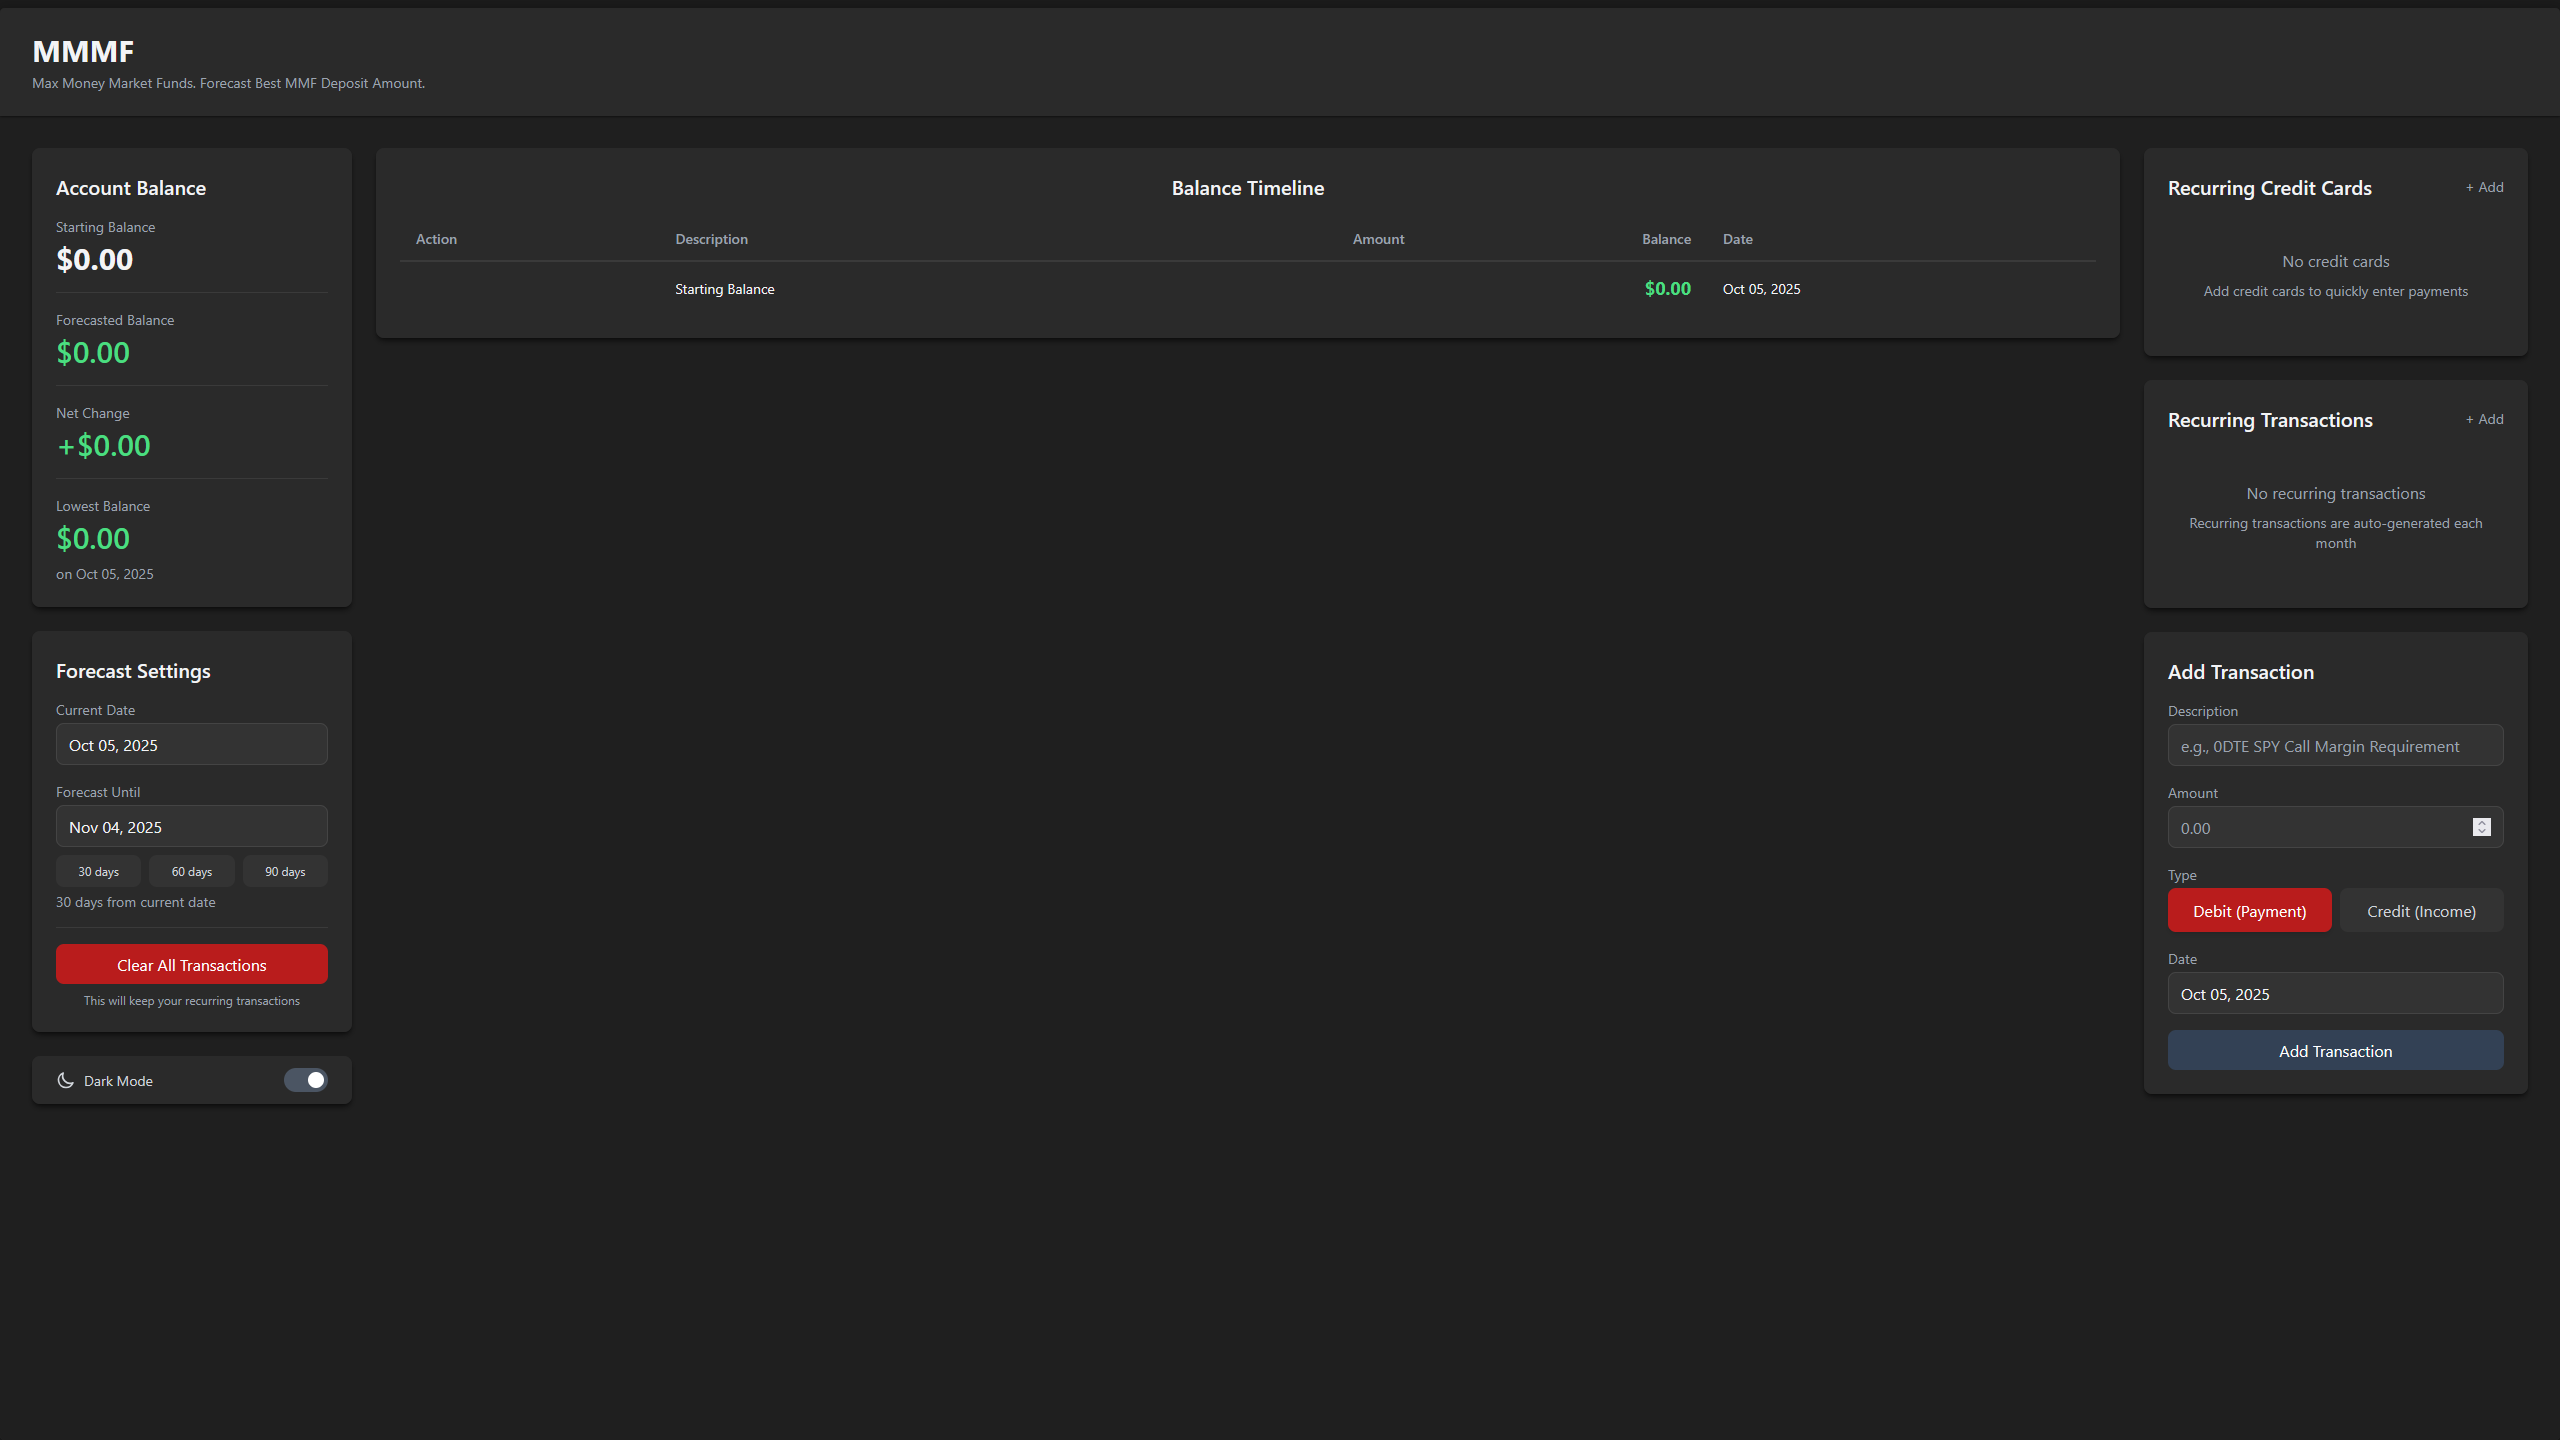
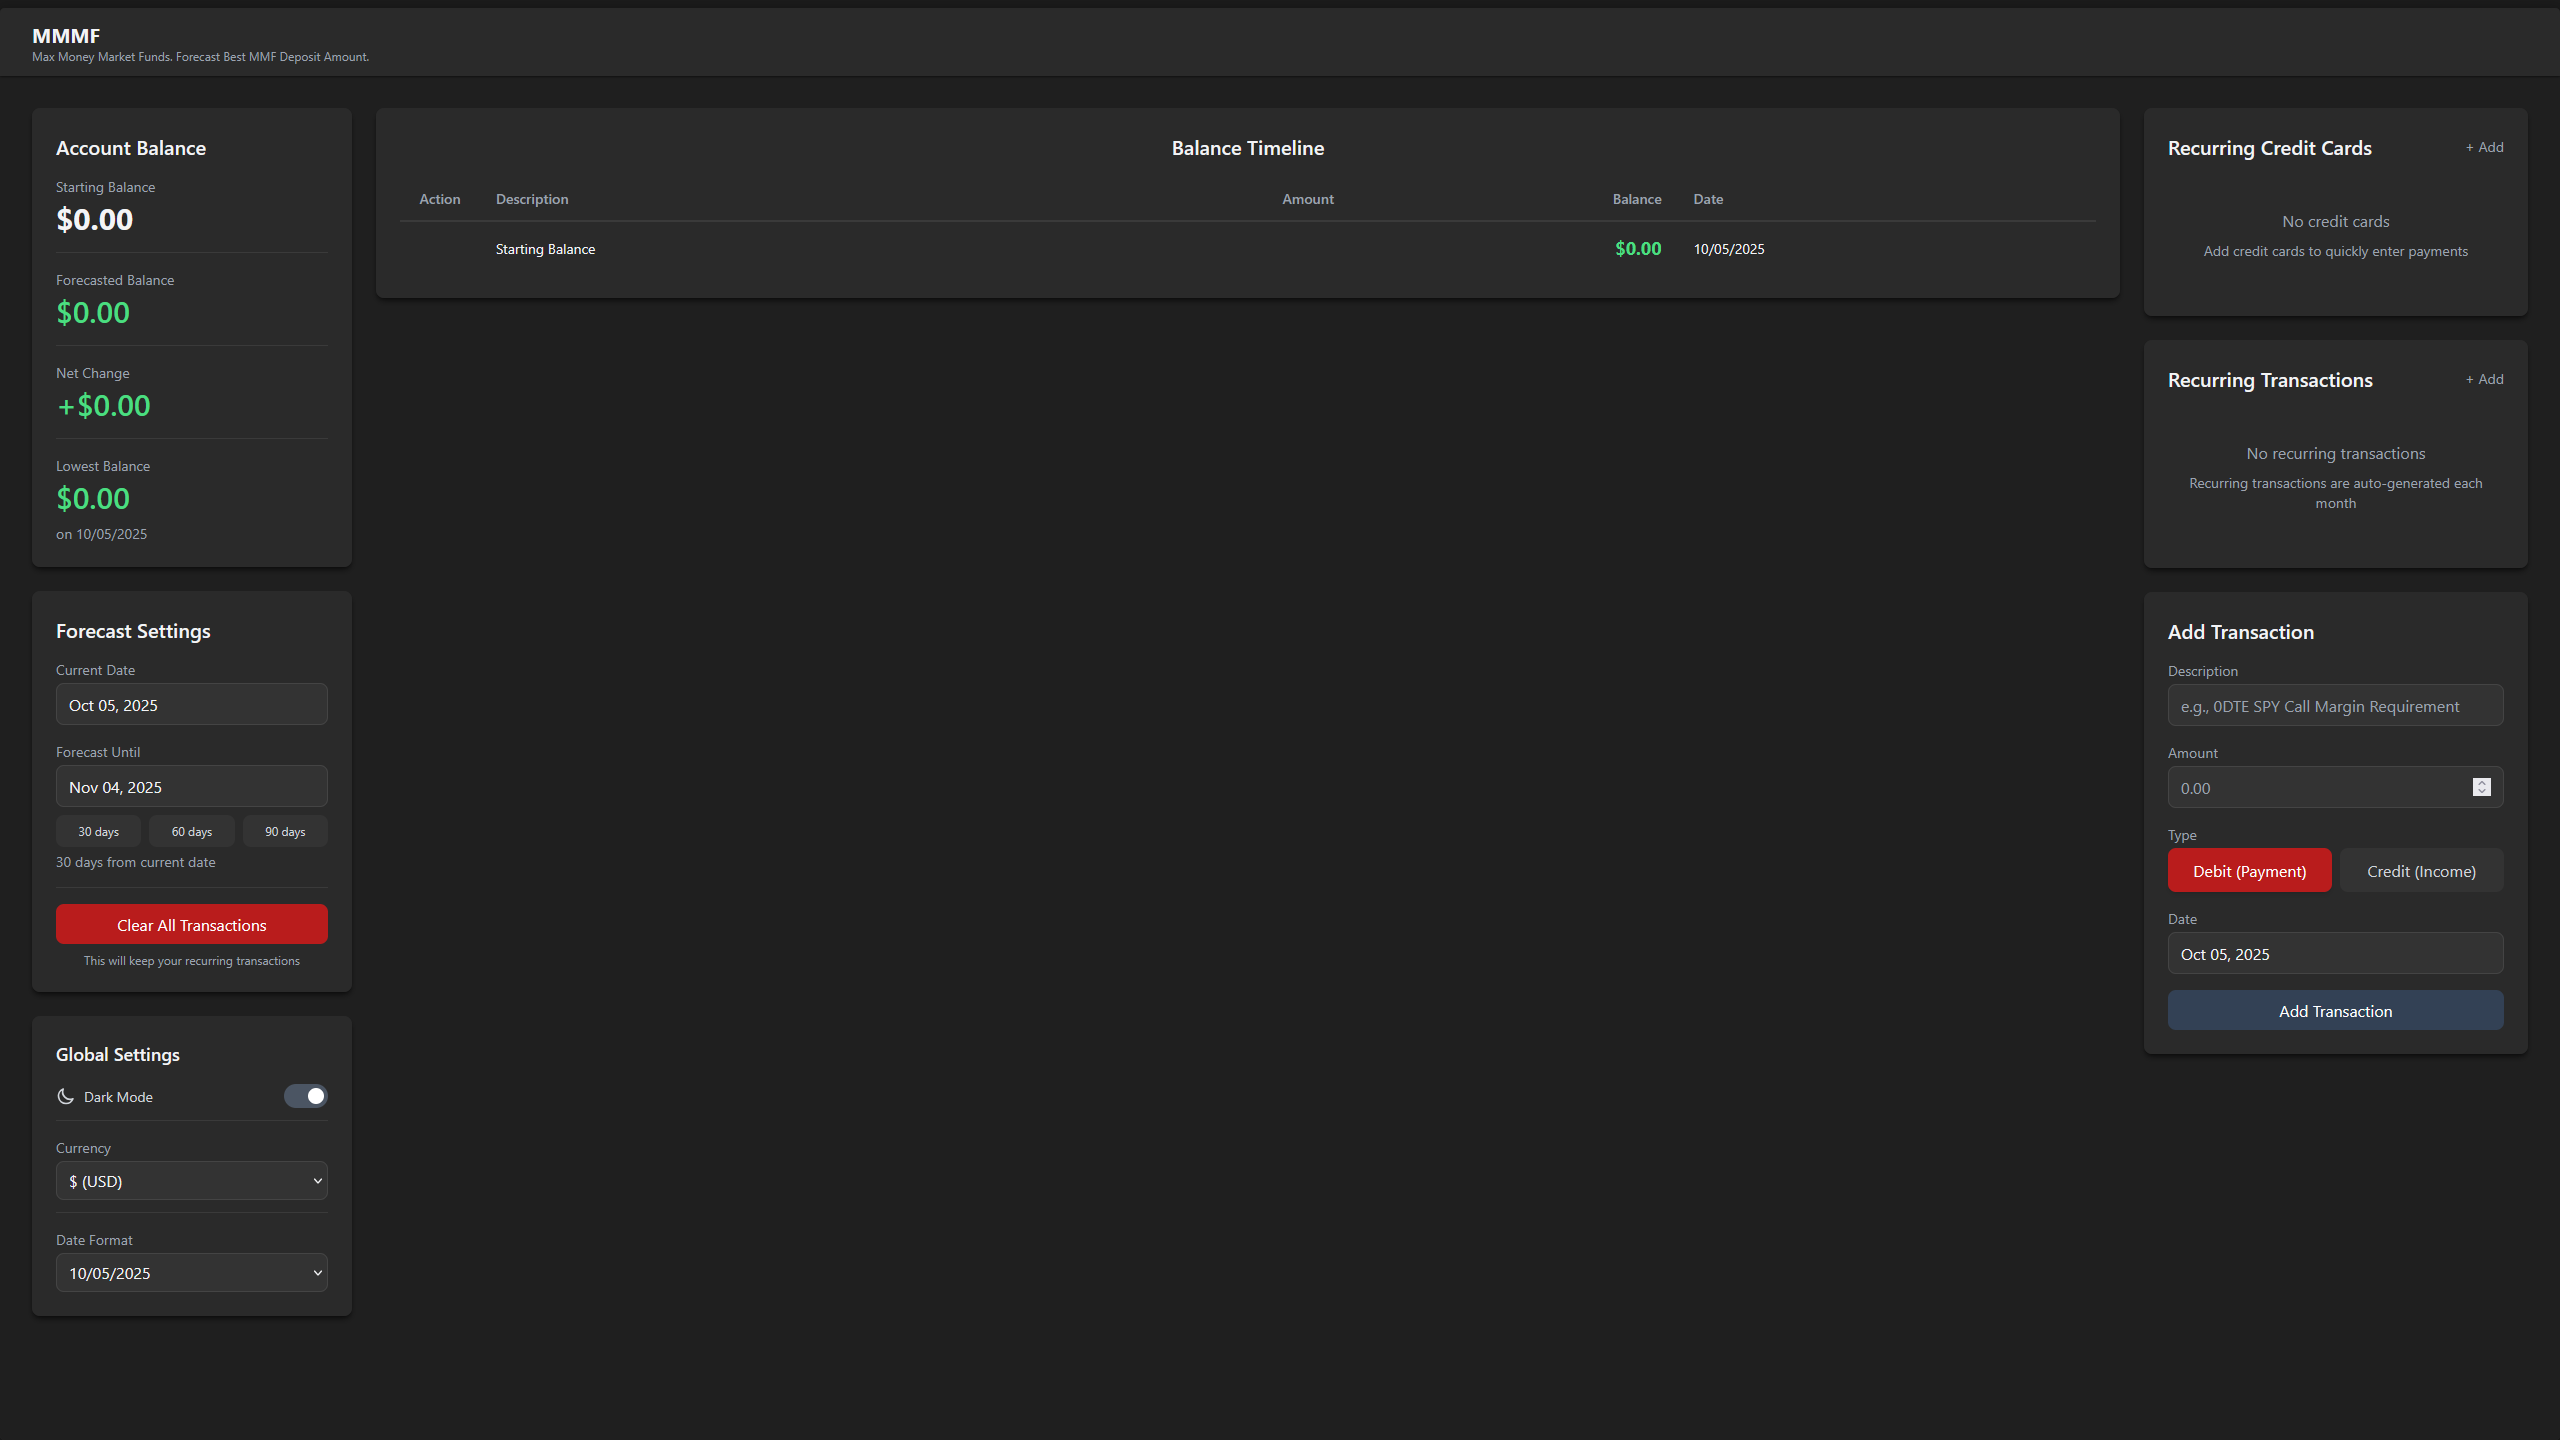
feat: auto focus new field, smaller header

diff --git a/src/components/BalanceTimeline.jsx b/src/components/BalanceTimeline.jsx
@@ -27,7 +27,7 @@ function BalanceTimeline({
         <table className="w-full">
           <thead className="bg-gray-100 dark:bg-[#2a2a2a] border-b-2 border-gray-300 dark:border-[#3a3a3a]">
             <tr>
-              <th className="px-4 py-3 text-left text-sm font-semibold text-gray-700 dark:text-gray-400">
+              <th className="px-4 py-3 text-center text-sm font-semibold text-gray-700 dark:text-gray-400 w-20">
                 Action
               </th>
               <th className="px-4 py-3 text-left text-sm font-semibold text-gray-700 dark:text-gray-400">
@@ -52,33 +52,37 @@ function BalanceTimeline({
                   entry.transaction ? "" : "bg-gray-100 dark:bg-[#2a2a2a]/50"
                 }`}
               >
-                <td className="px-4 py-3">
-                  {entry.transaction && !entry.transaction.isRecurring && (
-                    <button
-                      onClick={() => onDeleteTransaction(entry.transaction.id)}
-                      className="text-red-600 hover:text-red-700 dark:text-red-400 dark:hover:text-red-300 p-1"
-                      title="Delete transaction"
-                    >
-                      <svg
-                        className="w-5 h-5"
-                        fill="none"
-                        stroke="currentColor"
-                        viewBox="0 0 24 24"
+                <td className="px-4 py-3 w-20">
+                  <div className="flex items-center justify-center">
+                    {entry.transaction && !entry.transaction.isRecurring && (
+                      <button
+                        onClick={() =>
+                          onDeleteTransaction(entry.transaction.id)
+                        }
+                        className="text-red-600 hover:text-red-700 dark:text-red-400 dark:hover:text-red-300 p-1"
+                        title="Delete transaction"
                       >
-                        <path
-                          strokeLinecap="round"
-                          strokeLinejoin="round"
-                          strokeWidth={2}
-                          d="M19 7l-.867 12.142A2 2 0 0116.138 21H7.862a2 2 0 01-1.995-1.858L5 7m5 4v6m4-6v6m1-10V4a1 1 0 00-1-1h-4a1 1 0 00-1 1v3M4 7h16"
-                        />
-                      </svg>
-                    </button>
-                  )}
-                  {entry.transaction && entry.transaction.isRecurring && (
-                    <span className="text-gray-400 dark:text-gray-500 text-xs px-1">
-                      Auto
-                    </span>
-                  )}
+                        <svg
+                          className="w-5 h-5"
+                          fill="none"
+                          stroke="currentColor"
+                          viewBox="0 0 24 24"
+                        >
+                          <path
+                            strokeLinecap="round"
+                            strokeLinejoin="round"
+                            strokeWidth={2}
+                            d="M19 7l-.867 12.142A2 2 0 0116.138 21H7.862a2 2 0 01-1.995-1.858L5 7m5 4v6m4-6v6m1-10V4a1 1 0 00-1-1h-4a1 1 0 00-1 1v3M4 7h16"
+                          />
+                        </svg>
+                      </button>
+                    )}
+                    {entry.transaction && entry.transaction.isRecurring && (
+                      <span className="text-gray-400 dark:text-gray-500 text-xs px-1">
+                        Auto
+                      </span>
+                    )}
+                  </div>
                 </td>
                 <td className="px-4 py-3 text-sm text-gray-900 dark:text-gray-100">
                   {entry.transaction

diff --git a/src/components/Header.jsx b/src/components/Header.jsx
@@ -3,12 +3,12 @@ import React from "react";
 function Header() {
   return (
     <header className="bg-gray-50 dark:bg-[#2a2a2a] shadow-sm dark:shadow-black/50">
-      <div className="max-w-full mx-auto px-4 sm:px-6 lg:px-8 py-6">
+      <div className="max-w-full mx-auto px-4 sm:px-6 lg:px-8 py-3">
         <div>
-          <h1 className="text-3xl font-bold text-primary-600 dark:text-gray-100">
+          <h1 className="text-xl font-bold text-primary-600 dark:text-gray-100">
             MMMF
           </h1>
-          <p className="text-sm text-gray-600 dark:text-gray-400 mt-1">
+          <p className="text-xs text-gray-600 dark:text-gray-400">
             Max Money Market Funds. Forecast Best MMF Deposit Amount.
           </p>
         </div>

diff --git a/src/components/RecurringCreditCards.jsx b/src/components/RecurringCreditCards.jsx
@@ -278,6 +278,13 @@ function RecurringCreditCards({
     name: "",
     dayOfMonth: "",
   });
+  const nameInputRef = useRef(null);
+
+  useEffect(() => {
+    if (showForm && nameInputRef.current) {
+      nameInputRef.current.focus();
+    }
+  }, [showForm]);
 
   const handleSubmit = (e) => {
     e.preventDefault();
@@ -320,6 +327,7 @@ function RecurringCreditCards({
           className="mb-4 p-4 bg-gray-50 dark:bg-[#2a2a2a] rounded-lg space-y-3"
         >
           <input
+            ref={nameInputRef}
             type="text"
             placeholder="Card Name (e.g., Chase Sapphire)"
             value={formData.name}

diff --git a/src/components/RecurringList.jsx b/src/components/RecurringList.jsx
@@ -176,6 +176,13 @@ function RecurringList({
     type: "debit",
     dayOfMonth: "",
   });
+  const nameInputRef = useRef(null);
+
+  useEffect(() => {
+    if (showForm && nameInputRef.current) {
+      nameInputRef.current.focus();
+    }
+  }, [showForm]);
 
   const handleSubmit = (e) => {
     e.preventDefault();
@@ -222,6 +229,7 @@ function RecurringList({
           className="mb-4 p-4 bg-gray-50 dark:bg-[#2a2a2a] rounded-lg space-y-3"
         >
           <input
+            ref={nameInputRef}
             type="text"
             placeholder="Description"
             value={formData.name}
